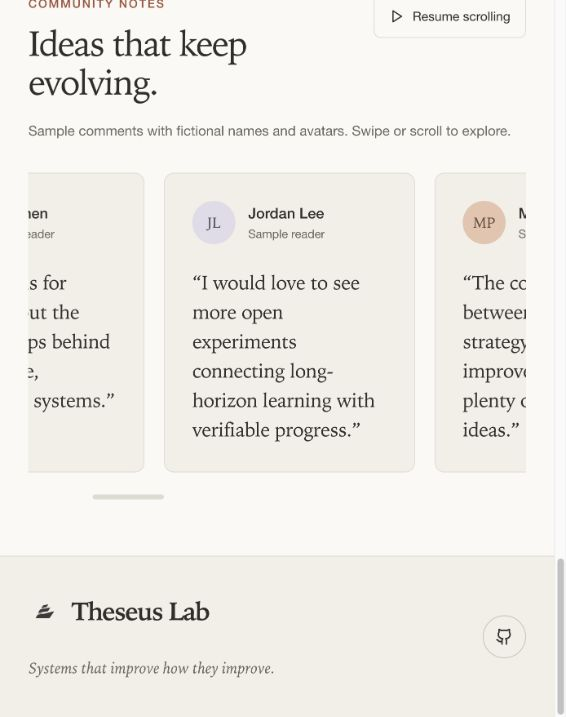
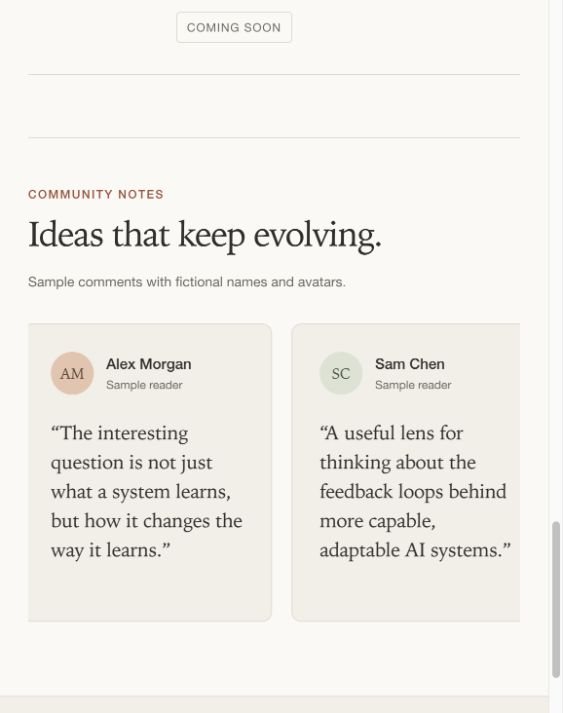
fix: simplify comment scrolling and hover pause

diff --git a/src/testa/CommunityComments.tsx b/src/testa/CommunityComments.tsx
@@ -1,6 +1,3 @@
-import { useEffect, useRef, useState } from 'react'
-import { Pause, Play } from 'lucide-react'
-
 // Replace these fictional examples with approved community comments when available.
 const comments = [
   { name: 'Alex Morgan', initials: 'AM', quote: 'The interesting question is not just what a system learns, but how it changes the way it learns.' },
@@ -12,41 +9,6 @@ const comments = [
 ]
 
 export default function CommunityComments() {
-  const viewport = useRef<HTMLDivElement>(null)
-  const group = useRef<HTMLDivElement>(null)
-  const [paused, setPaused] = useState(false)
-  const [hovered, setHovered] = useState(false)
-  const [focused, setFocused] = useState(false)
-  const [reducedMotion, setReducedMotion] = useState(() => window.matchMedia('(prefers-reduced-motion: reduce)').matches)
-
-  useEffect(() => {
-    const media = window.matchMedia('(prefers-reduced-motion: reduce)')
-    const update = () => setReducedMotion(media.matches)
-    media.addEventListener('change', update)
-    return () => media.removeEventListener('change', update)
-  }, [])
-
-  useEffect(() => {
-    const windowElement = viewport.current
-    const groupElement = group.current
-    if (!windowElement || !groupElement || paused || hovered || focused || reducedMotion) return
-
-    let frame = 0
-    let previous = 0
-    let position = windowElement.scrollLeft
-    const animate = (time: number) => {
-      const width = groupElement.offsetWidth
-      if (previous && width) {
-        position = (position + Math.min(time - previous, 64) * .028) % width
-        windowElement.scrollLeft = position
-      }
-      previous = time
-      frame = requestAnimationFrame(animate)
-    }
-    frame = requestAnimationFrame(animate)
-    return () => cancelAnimationFrame(frame)
-  }, [paused, hovered, focused, reducedMotion])
-
   return (
     <section className="content-section community-comments" aria-labelledby="comments-title">
       <div className="section-heading">
@@ -54,32 +16,19 @@ export default function CommunityComments() {
           <p className="section-label">COMMUNITY NOTES</p>
           <h2 id="comments-title">Ideas that keep evolving.</h2>
         </div>
-        {!reducedMotion && (
-          <button className="comments-toggle" type="button" onClick={() => setPaused(!paused)} aria-controls="comments-window">
-            {paused ? <Play size={15} aria-hidden="true" /> : <Pause size={15} aria-hidden="true" />}
-            {paused ? 'Resume scrolling' : 'Pause scrolling'}
-          </button>
-        )}
       </div>
-      <p className="comments-note" id="comments-note">Sample comments with fictional names and avatars. Swipe or scroll to explore.</p>
+      <p className="comments-note" id="comments-note">Sample comments with fictional names and avatars.</p>
       <div
         className="comments-window"
         id="comments-window"
-        ref={viewport}
         role="region"
         aria-label="Sample community comments"
         aria-describedby="comments-note"
         tabIndex={0}
-        onMouseEnter={() => setHovered(true)}
-        onMouseLeave={() => setHovered(false)}
-        onFocus={() => setFocused(true)}
-        onBlur={() => setFocused(false)}
-        onPointerDown={() => setPaused(true)}
-        onWheel={() => setPaused(true)}
       >
         <div className="comments-track">
           {[0, 1].map((copy) => (
-            <div className={`comments-group${copy ? ' comments-copy' : ''}`} key={copy} ref={copy === 0 ? group : undefined} aria-hidden={copy === 1 ? true : undefined}>
+            <div className={`comments-group${copy ? ' comments-copy' : ''}`} key={copy} aria-hidden={copy === 1 ? true : undefined}>
               {comments.map((comment, index) => (
                 <figure className="comment-card" key={comment.name}>
                   <figcaption>

diff --git a/src/testa/styles.css b/src/testa/styles.css
@@ -226,9 +226,11 @@ section[id] { scroll-margin-top: 32px; }
 .community-comments { padding-top: 56px; border-top: 1px solid var(--line); }
 .community-comments .section-heading { margin-bottom: 18px; }
 .comments-note { margin: 0 0 28px; color: var(--muted); font-size: .875rem; line-height: 1.6; }
-.comments-toggle { display: inline-flex; align-items: center; justify-content: center; gap: 9px; min-height: 44px; padding: 10px 15px; flex-shrink: 0; border: 1px solid var(--line); border-radius: 7px; color: var(--ink); background: transparent; font: inherit; font-size: .8125rem; cursor: pointer; }
-.comments-toggle:hover { background: var(--surface); border-color: var(--accent); }
-.comments-window { overflow-x: auto; padding: 4px 0 20px; scrollbar-width: thin; scrollbar-color: var(--line) transparent; }
+.comments-window { overflow: hidden; padding: 4px 0 20px; scrollbar-width: none; }
+.comments-window::-webkit-scrollbar { display: none; }
+.comments-track { animation: comments-scroll 72s linear infinite; }
+.comments-window:hover .comments-track, .comments-window:focus-visible .comments-track { animation-play-state: paused; }
+@keyframes comments-scroll { to { transform: translateX(-50%); } }
 .comments-track, .comments-group { display: flex; width: max-content; }
 .comments-group { gap: 20px; padding-right: 20px; }
 .comment-card { width: clamp(256px, 28vw, 356px); margin: 0; padding: 28px; border: 1px solid var(--line); border-radius: 10px; background: var(--surface); }
@@ -329,5 +331,7 @@ section[id] { scroll-margin-top: 32px; }
 @media (prefers-reduced-motion: reduce) {
   html { scroll-behavior: auto; }
   *, *::before, *::after { transition: none !important; }
+  .comments-track { animation: none; }
+  .comments-window { overflow-x: auto; }
   .comments-copy { display: none; }
 }
